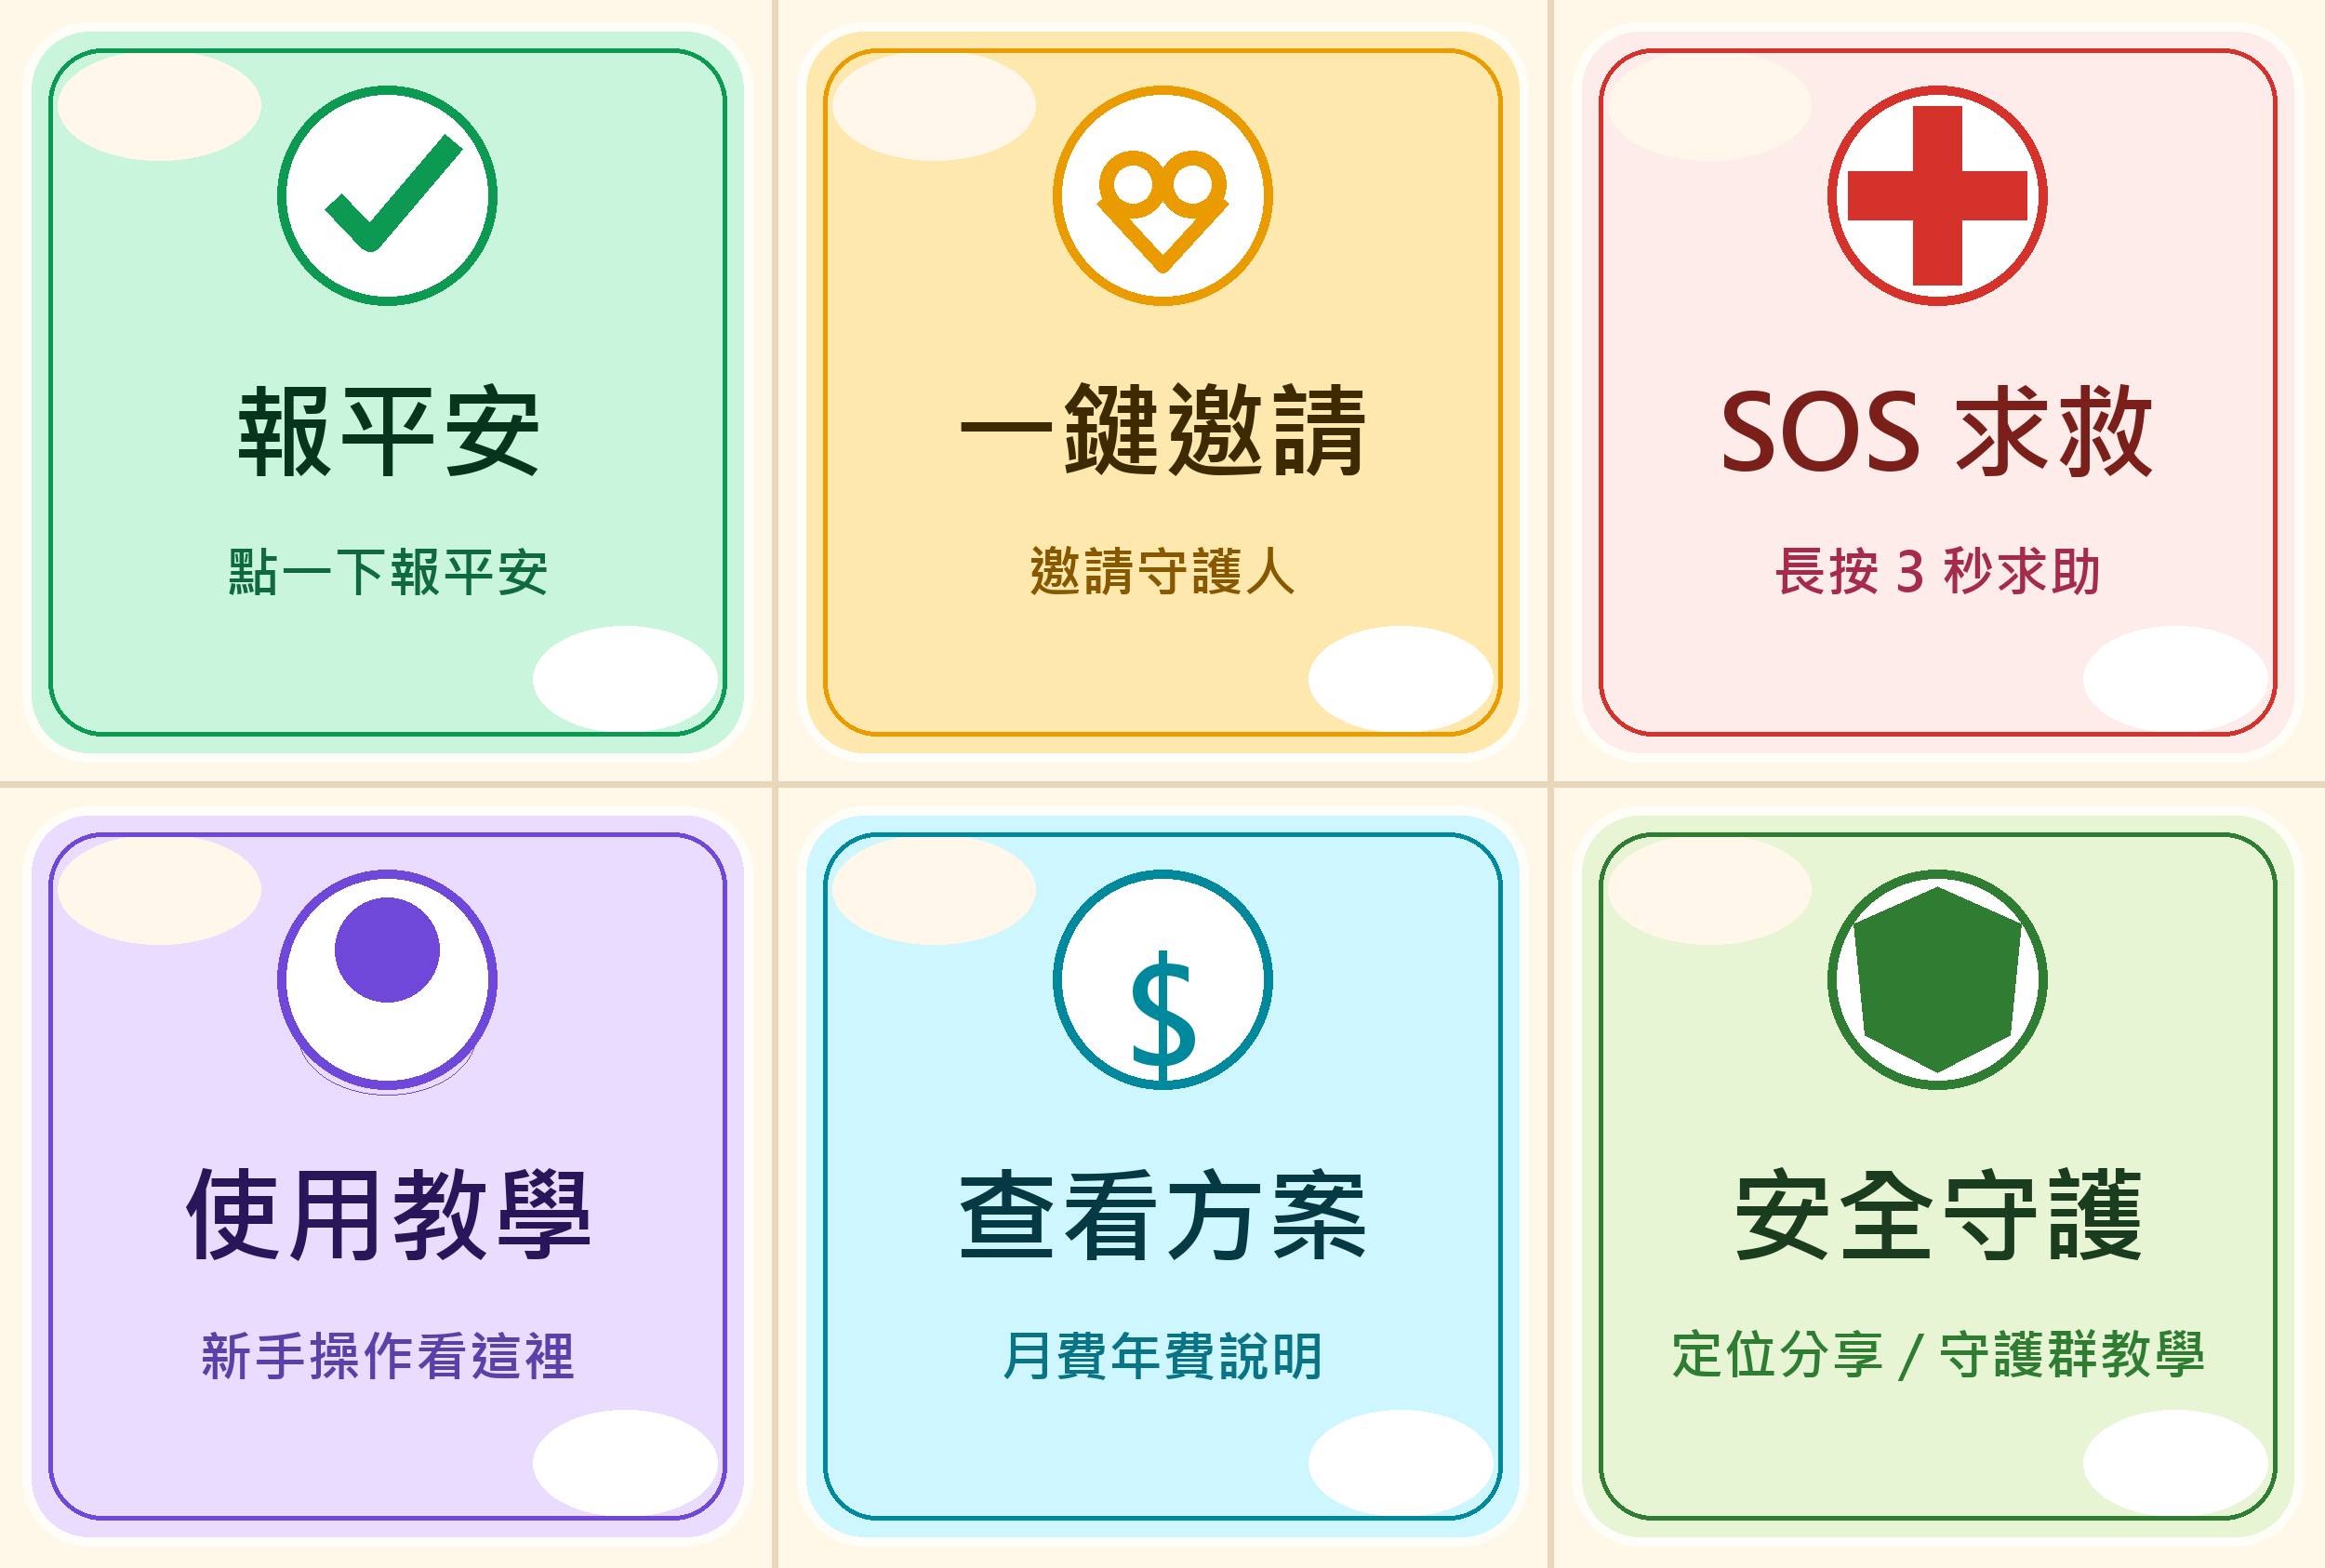
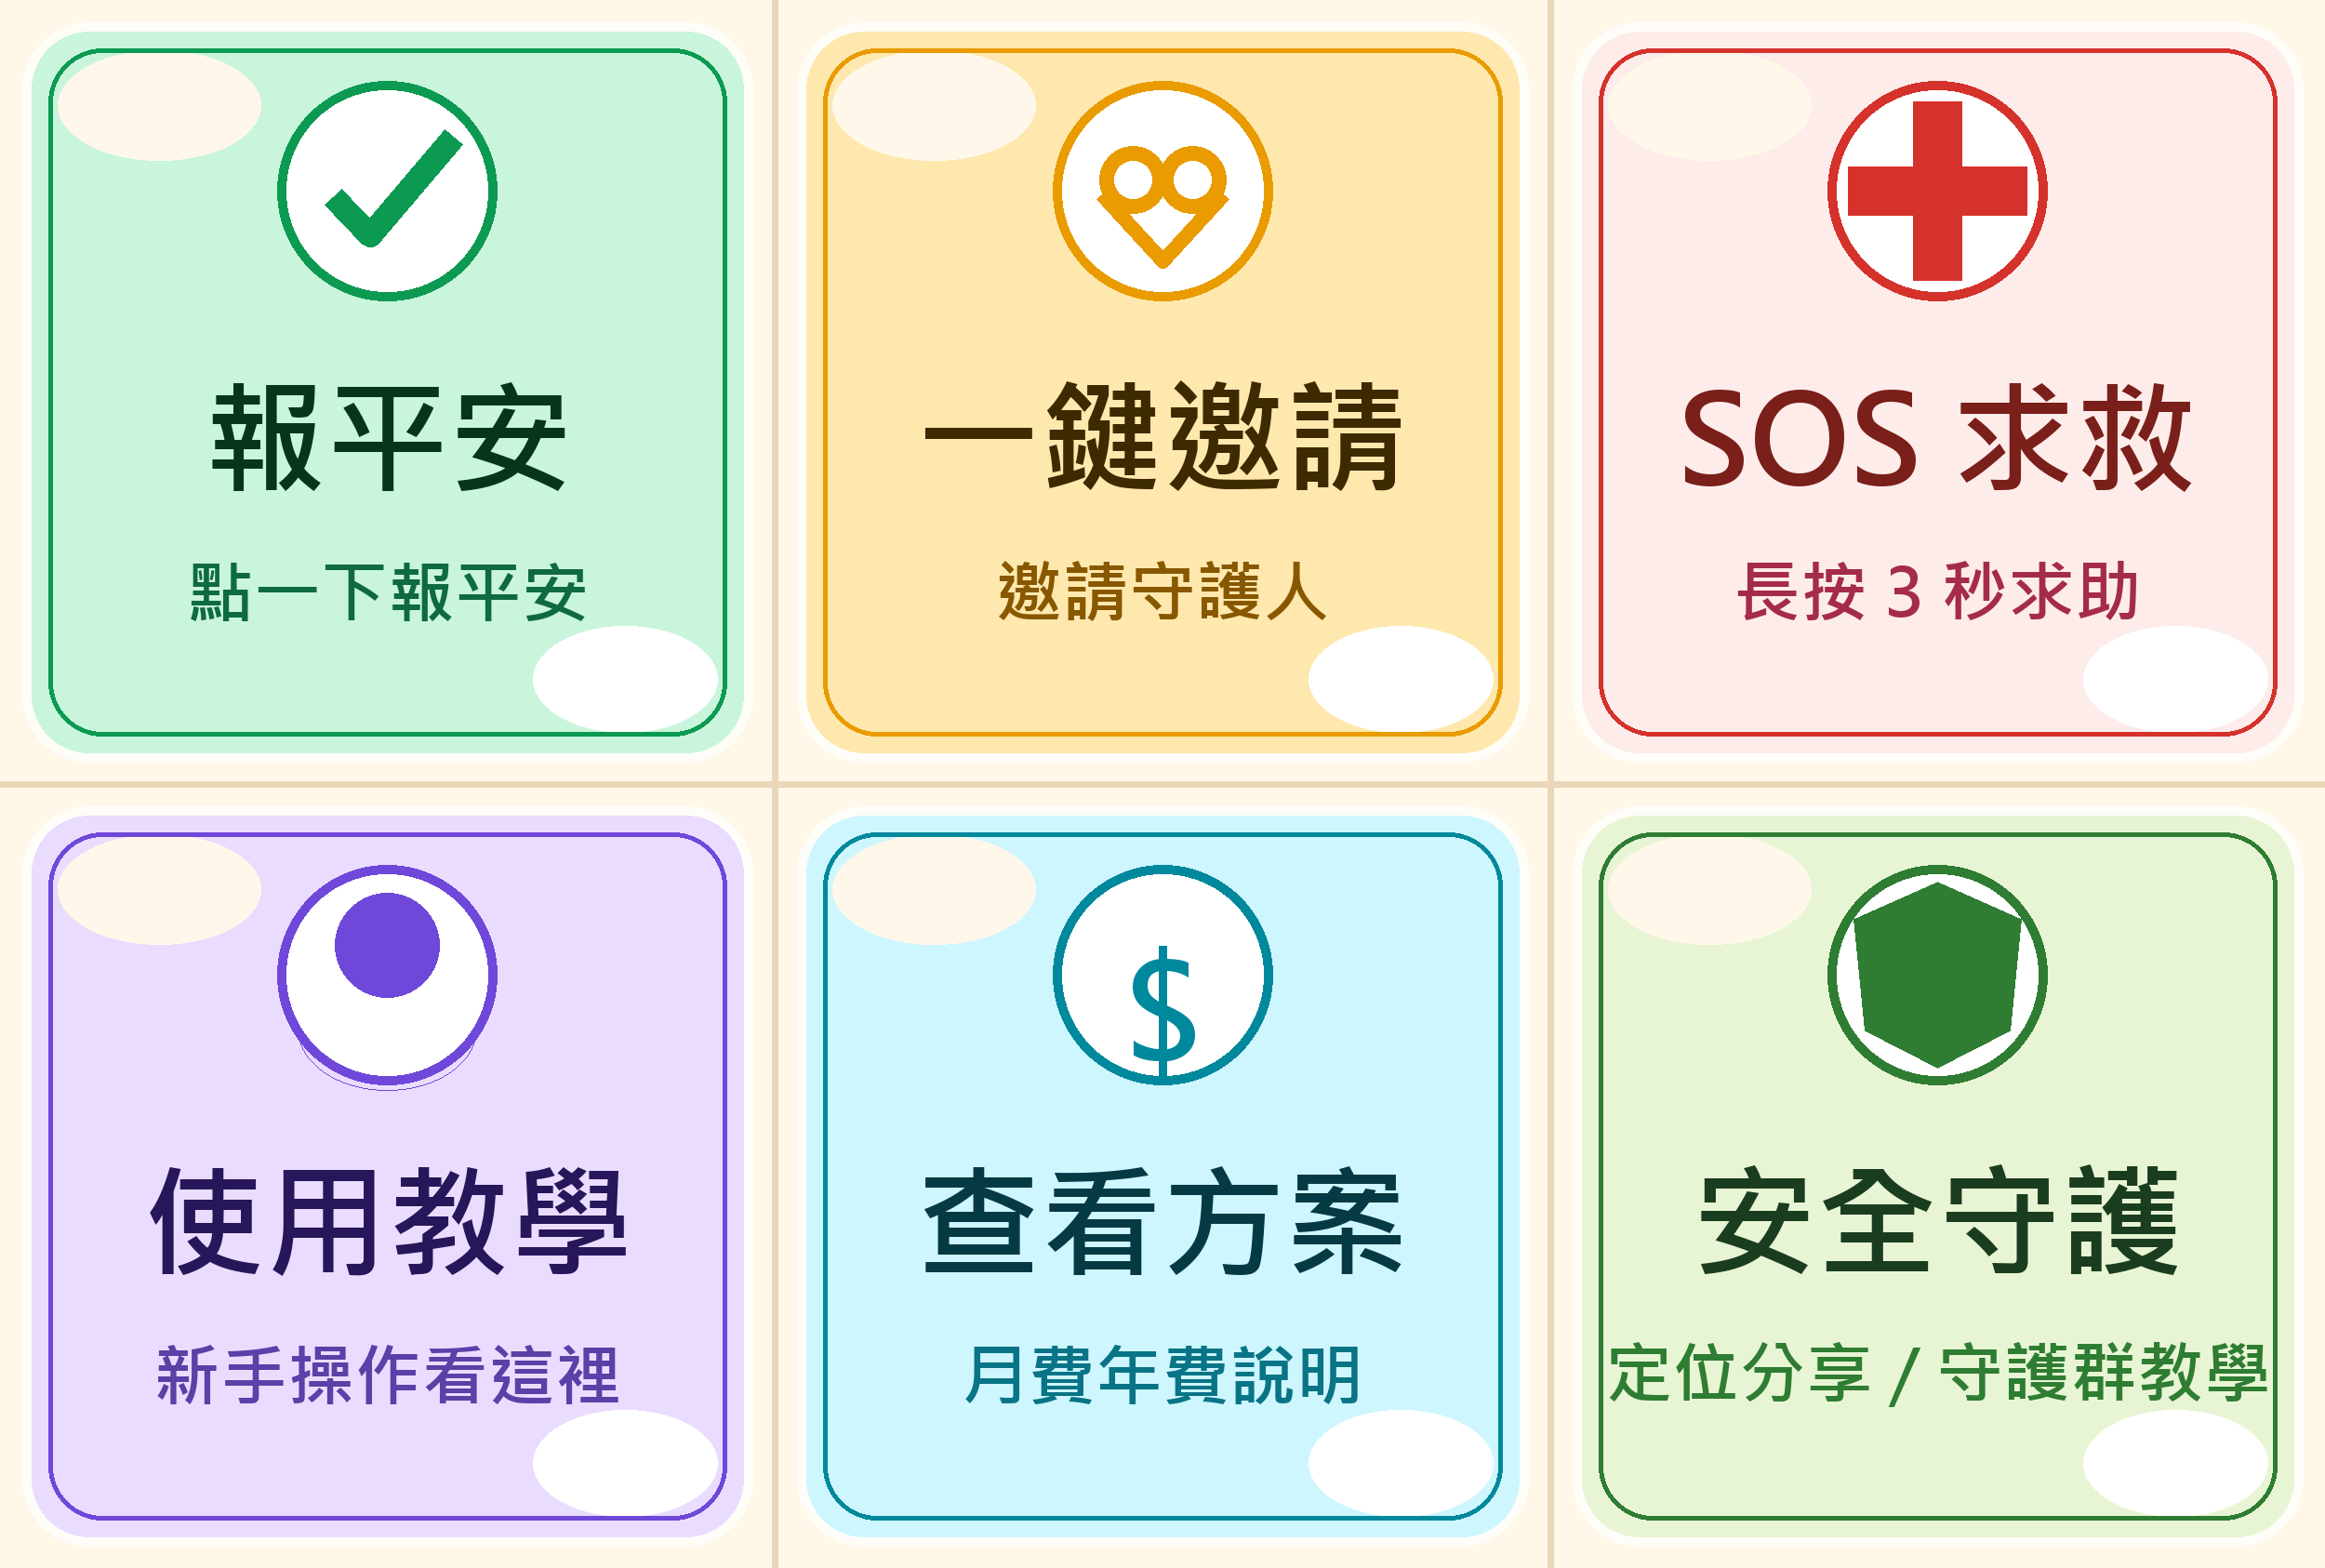
fix: route guardian invites through liff

diff --git a/index.html b/index.html
@@ -4164,9 +4164,6 @@
       const bindUrl = lineUserId
         ? buildLiffPermanentUrl({ invite_from: lineUserId })
         : buildLiffPermanentUrl({ open: "onboarding" });
-      const fallbackUrl = lineUserId
-        ? buildPublicAppUrl({ invite_from: lineUserId })
-        : buildPublicAppUrl({ open: "onboarding" });
       const nameText = nickname ? `嗨 ${nickname}，` : "";
       const text = (
         `${nameText}我想邀請你成為「每日平安」的守護人。\n\n` +
@@ -4175,10 +4172,9 @@
         `2. 登入並同意成為守護人\n` +
         `3. 綁定完成後，若我未準時報平安或發出 SOS，你會收到 LINE 通知\n\n` +
         `你不需要另外註冊 App。點連結完成授權即可。\n\n` +
-        `守護邀請連結（LINE 內嵌）：\n${bindUrl}\n\n` +
-        `如果 Android 打不開，請改點備用連結：\n${fallbackUrl}`
+        `守護邀請連結（請用 LINE 開啟）：\n${bindUrl}`
       );
-      return { bindUrl, fallbackUrl, text };
+      return { bindUrl, text };
     }
 
     async function apiBindEmergencyContact(inviterLineUserId) {
@@ -4676,7 +4672,7 @@
       const inviteMeta = $("inviteMeta");
       if (inviteUrlBox) inviteUrlBox.value = bindUrl;
       if (inviteArea) inviteArea.hidden = false;
-      if (inviteMeta) inviteMeta.textContent = "此為永久 LIFF 連結（不含 code/state），請用 LINE 開啟。";
+      if (inviteMeta) inviteMeta.textContent = "此為永久 LIFF 內嵌連結（不含 code/state）。Android 與 iPhone 都請用 LINE 開啟。";
       try {
         if (window.liff && liff.isInClient && liff.isInClient() && liff.shareTargetPicker) {
           await liff.shareTargetPicker([
@@ -4694,7 +4690,12 @@
           alert(text);
         }
       } catch (error) {
-        alert("邀請已取消，想分享時可以再按一次。");
+        if (navigator.clipboard) {
+          await navigator.clipboard.writeText(text);
+          alert("LINE 分享視窗沒有開啟，邀請文案已複製。請直接貼到 LINE 傳給守護人。");
+        } else {
+          alert("LINE 分享視窗沒有開啟，請複製畫面上的 LIFF 連結傳給守護人。");
+        }
       }
     }
 

diff --git a/guardian_group_flex.py b/guardian_group_flex.py
@@ -113,6 +113,29 @@ def _footer_buttons(include: tuple[str, ...] = ("status", "guide", "admin")):
     return btns
 
 
+def _group_quick_actions():
+    """守護群固定 4 顆大按鈕，採 2x2 排版避免 LINE 手機版文字被切掉。"""
+    rows = [
+        [
+            _uri_button("我平安", liff_entry_url(open_action="checkin"), style="secondary", color=GREEN_DARK, height="md"),
+            _postback_button("聯絡家人", "聯絡家人", style="secondary", color=GREEN_DARK, height="md"),
+        ],
+        [
+            _postback_button("需要幫忙", "需要幫忙", style="secondary", color=RED_WARN, height="md"),
+            _postback_button("守護群狀態", "守護群狀態", style="secondary", color=GREEN_DARK, height="md"),
+        ],
+    ]
+    return [
+        {
+            "type": "box",
+            "layout": "horizontal",
+            "spacing": "sm",
+            "contents": row,
+        }
+        for row in rows
+    ]
+
+
 # ───────────────────────────────────────────────────────────
 # 1. 自我介紹(Intro)
 # ───────────────────────────────────────────────────────────
@@ -145,14 +168,13 @@ def guardian_group_intro_flex(owner_info: dict | None = None):
         "color": GREEN_DARK,
         "height": "md",
     }
-    # 已綁定則主按鈕改成「我已綁定守護群」視覺提示(仍可再點,handler 會回 already_bound)
     if already_bound:
         primary_bind = {
             "type": "button",
             "action": {
                 "type": "message",
                 "label": "我已完成守護群設定",
-                "text": "點我綁定守護群",
+                "text": "守護群狀態",
             },
             "style": "primary",
             "color": GREEN_DARK,
@@ -216,8 +238,8 @@ def guardian_group_intro_flex(owner_info: dict | None = None):
                         },
                         {
                             "type": "text",
-                            "text": "收到家人的平安訊息；只有逾期未簽到或主動求助時，才會在群裡提醒",
-                            "size": "md",
+                            "text": "收到家人的平安訊息。在這提醒報平安、發需要幫忙通知、逾期未報平安或主動求助時，才會在群裡提醒",
+                            "size": "lg",
                             "color": GRAY,
                             "wrap": True,
                         },
@@ -226,8 +248,8 @@ def guardian_group_intro_flex(owner_info: dict | None = None):
                 _owner_status_block(owner_info),
                 {
                     "type": "text",
-                    "text": "管理員請按下方按鈕，完成守護群設定",
-                    "size": "md",
+                    "text": "管理員第一次進群，請先完成守護群設定",
+                    "size": "lg",
                     "weight": "bold",
                     "color": GRAY,
                     "margin": "sm",
@@ -235,7 +257,7 @@ def guardian_group_intro_flex(owner_info: dict | None = None):
                 {
                     "type": "text",
                     "text": "完成後會顯示「我已完成守護群設定」。群內狀態明細預設只有管理員可以查看，保護家人隱私",
-                    "size": "md",
+                    "size": "lg",
                     "color": GRAY_LIGHT,
                     "wrap": True,
                 },
@@ -247,37 +269,7 @@ def guardian_group_intro_flex(owner_info: dict | None = None):
             "spacing": "sm",
             "paddingAll": "md",
             "backgroundColor": "#FAFAFA",
-            "contents": [
-                primary_bind,
-                {
-                    "type": "box",
-                    "layout": "horizontal",
-                    "spacing": "sm",
-                    "contents": [
-                        _uri_button(
-                            "報平安",
-                            liff_entry_url(fragment="home"),
-                            style="secondary",
-                            color=GREEN_DARK,
-                            height="sm",
-                        ),
-                        _uri_button(
-                            "聯絡家人",
-                            liff_entry_url(open_action="member"),
-                            style="secondary",
-                            color=GREEN_DARK,
-                            height="sm",
-                        ),
-                        _uri_button(
-                            "需要幫忙",
-                            liff_entry_url(open_action="sos"),
-                            style="secondary",
-                            color=GREEN_DARK,
-                            height="sm",
-                        ),
-                    ],
-                },
-            ],
+            "contents": [primary_bind, *_group_quick_actions()],
         },
     }
 
@@ -984,7 +976,6 @@ def welcome_flex(display_name: str | None = None):
     name = (display_name or "").strip() or "您"
     # 永久連結：開 LIFF 內嵌 → onboarding（分享邀請 → 守護人表單 → 提醒）。勿硬編碼 OAuth code/state。
     bind_uri = liff_entry_url(open_action="onboarding")
-    home_uri = liff_entry_url(open_action="home")
     pricing_uri = liff_entry_url(open_action="pricing")
     faq_uri = liff_entry_url(open_action="faq")
     sos_help_uri = liff_entry_url(open_action="help", section="sos")
@@ -1111,12 +1102,12 @@ def welcome_flex(display_name: str | None = None):
                     "type": "button",
                     "action": {
                         "type": "uri",
-                        "label": "SOS 長按教學",
+                        "label": "SOS 與緊急聯絡教學",
                         "uri": sos_help_uri,
                     },
                     "style": "link",
                     "color": GRAY,
-                    "height": "sm",
+                    "height": "md",
                 },
                 {
                     "type": "button",
@@ -1127,7 +1118,7 @@ def welcome_flex(display_name: str | None = None):
                     },
                     "style": "link",
                     "color": RED_WARN,
-                    "height": "sm",
+                    "height": "md",
                 },
                 {
                     "type": "button",
@@ -1138,18 +1129,7 @@ def welcome_flex(display_name: str | None = None):
                     },
                     "style": "link",
                     "color": GREEN_DARK,
-                    "height": "sm",
-                },
-                {
-                    "type": "button",
-                    "action": {
-                        "type": "uri",
-                        "label": "回到首頁",
-                        "uri": home_uri,
-                    },
-                    "style": "link",
-                    "color": GRAY,
-                    "height": "sm",
+                    "height": "md",
                 },
             ],
         },

diff --git a/tests/test_product_rules.py b/tests/test_product_rules.py
@@ -264,11 +264,11 @@ class ProductRulesTests(unittest.TestCase):
     def test_welcome_help_button_opens_sos_tutorial_directly(self):
         flex = (ROOT / "guardian_group_flex.py").read_text(encoding="utf-8")
 
-        self.assertIn('"label": "SOS 長按教學"', flex)
+        self.assertIn('"label": "SOS 與緊急聯絡教學"', flex)
         self.assertIn('sos_help_uri = liff_entry_url(open_action="help", section="sos")', flex)
         self.assertIn('"label": "立即升級守護"', flex)
         self.assertIn('"label": "問與答"', flex)
-        self.assertIn('"label": "回到首頁"', flex)
+        self.assertNotIn('"label": "回到首頁"', flex)
         self.assertNotIn('f"{PUBLIC_BASE}/help.html#sos"', flex)
         self.assertNotIn("求助(長按看教學)", flex)
 
@@ -298,14 +298,30 @@ class ProductRulesTests(unittest.TestCase):
         self.assertIn("https://alive-checkin.onrender.com/", backend)
         self.assertNotIn("file:///C:/Users/WIN11", backend)
 
-    def test_guardian_invite_has_android_public_fallback(self):
+    def test_guardian_invite_uses_liff_only_to_avoid_android_external_browser(self):
         page = (ROOT / "index.html").read_text(encoding="utf-8")
+        invite_block = page[
+            page.index("function buildContactInvite")
+            : page.index("async function apiBindEmergencyContact")
+        ]
 
         self.assertIn("function buildPublicAppUrl", page)
-        self.assertIn("守護邀請連結（LINE 內嵌）", page)
-        self.assertIn("如果 Android 打不開，請改點備用連結", page)
-        self.assertIn("fallbackUrl", page)
-        self.assertIn('buildPublicAppUrl({ invite_from: lineUserId })', page)
+        self.assertIn("守護邀請連結（請用 LINE 開啟）", invite_block)
+        self.assertIn("buildLiffPermanentUrl({ invite_from: lineUserId })", invite_block)
+        self.assertNotIn("如果 Android 打不開，請改點備用連結", invite_block)
+        self.assertNotIn("buildPublicAppUrl({ invite_from: lineUserId })", invite_block)
+
+    def test_guardian_group_intro_has_large_four_button_actions(self):
+        flex = (ROOT / "guardian_group_flex.py").read_text(encoding="utf-8")
+
+        self.assertIn("def _group_quick_actions", flex)
+        self.assertIn('text": "收到家人的平安訊息。在這提醒報平安、發需要幫忙通知、逾期未報平安或主動求助時，才會在群裡提醒"', flex)
+        self.assertIn('_uri_button("我平安", liff_entry_url(open_action="checkin")', flex)
+        self.assertIn('_postback_button("聯絡家人"', flex)
+        self.assertIn('_postback_button("需要幫忙"', flex)
+        self.assertIn('_postback_button("守護群狀態"', flex)
+        self.assertIn('"label": "我已完成守護群設定"', flex)
+        self.assertIn('"text": "守護群狀態"', flex)
 
     def test_friend_location_invite_has_android_public_fallback(self):
         page = (ROOT / "index.html").read_text(encoding="utf-8")

diff --git a/scripts/generate_rich_menu_image.py b/scripts/generate_rich_menu_image.py
@@ -82,8 +82,8 @@ def main():
     bg = Image.new("RGB", (WIDTH, HEIGHT), "#fff7e8")
     draw = ImageDraw.Draw(bg)
 
-    title_font = font(112, bold=True)
-    subtitle_font = font(58, bold=True)
+    title_font = font(132, bold=True)
+    subtitle_font = font(72, bold=True)
 
     x_positions = [0, CELL_W[0], CELL_W[0] + CELL_W[1]]
     # 2026-07-21 patch 22: 6 格重排,加入 SOS(紅色突出)+ 我的會員 + 守護群
@@ -106,9 +106,9 @@ def main():
         draw.ellipse((x + 62, y + 54, x + 280, y + 172), fill="#fff8ea")
         draw.ellipse((x + w - 260, y + CELL_H - 170, x + w - 62, y + CELL_H - 56), fill="#ffffff")
         draw.rounded_rectangle((x + 52, y + 52, x + w - 52, y + CELL_H - 52), radius=58, outline=line, width=5)
-        draw_icon(draw, x + w / 2, y + 210, icon, line)
-        centered_text(draw, (x, y + 370, x + w, y + 500), label, title_font, text_color)
-        centered_text(draw, (x + 34, y + 540, x + w - 34, y + 660), desc, subtitle_font, desc_color)
+        draw_icon(draw, x + w / 2, y + 205, icon, line)
+        centered_text(draw, (x, y + 360, x + w, y + 515), label, title_font, text_color)
+        centered_text(draw, (x + 28, y + 545, x + w - 28, y + 690), desc, subtitle_font, desc_color)
 
     draw.line((833, 0, 833, HEIGHT), fill="#ead6b8", width=7)
     draw.line((1667, 0, 1667, HEIGHT), fill="#ead6b8", width=7)